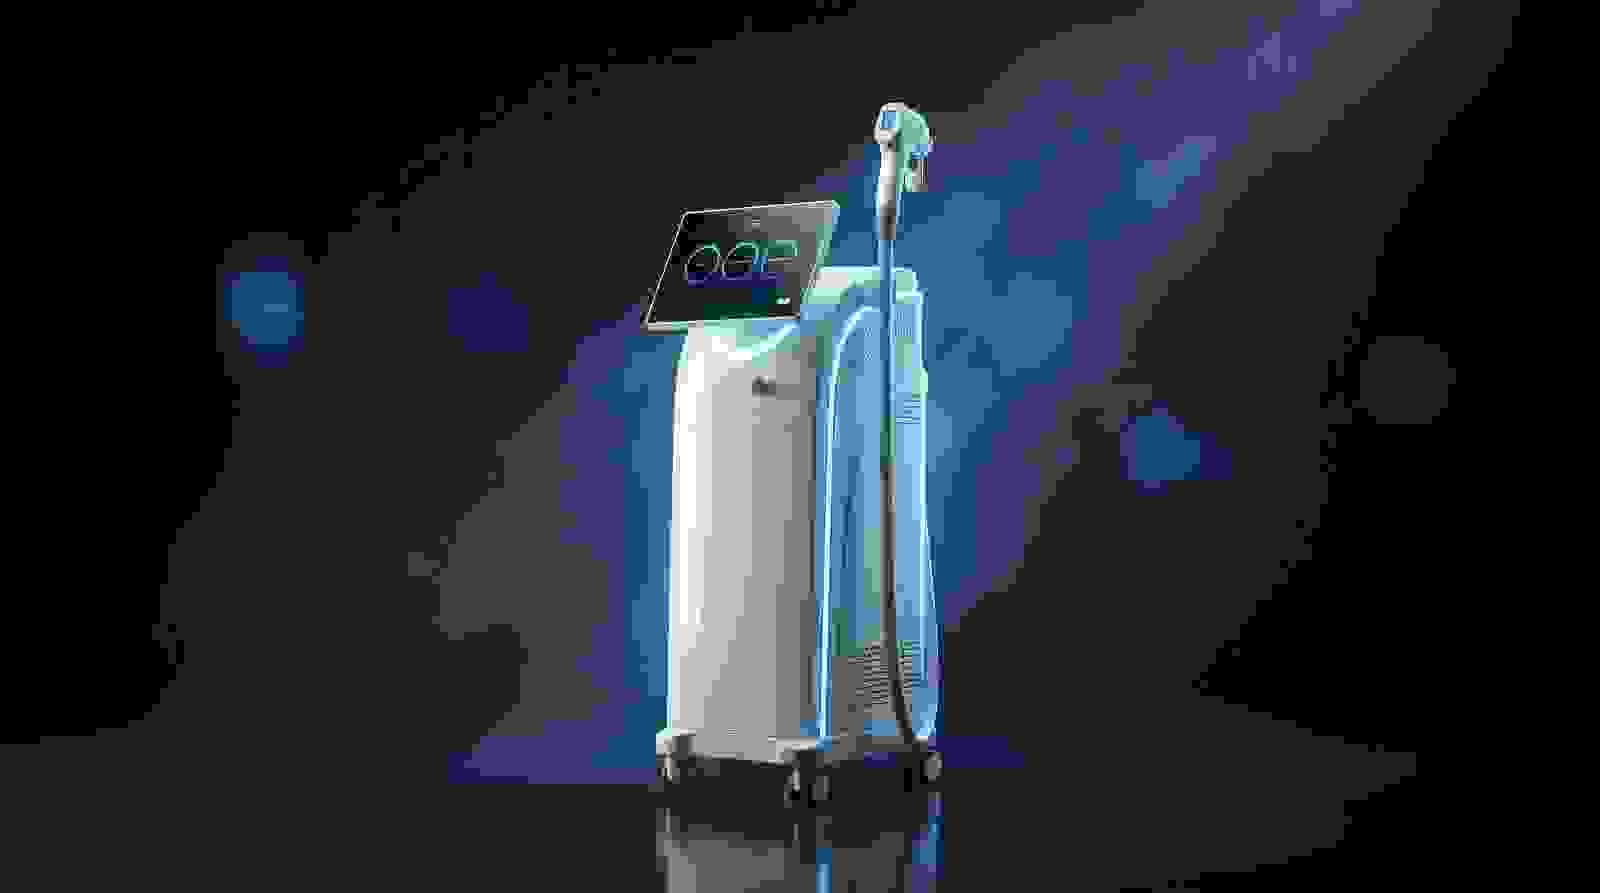
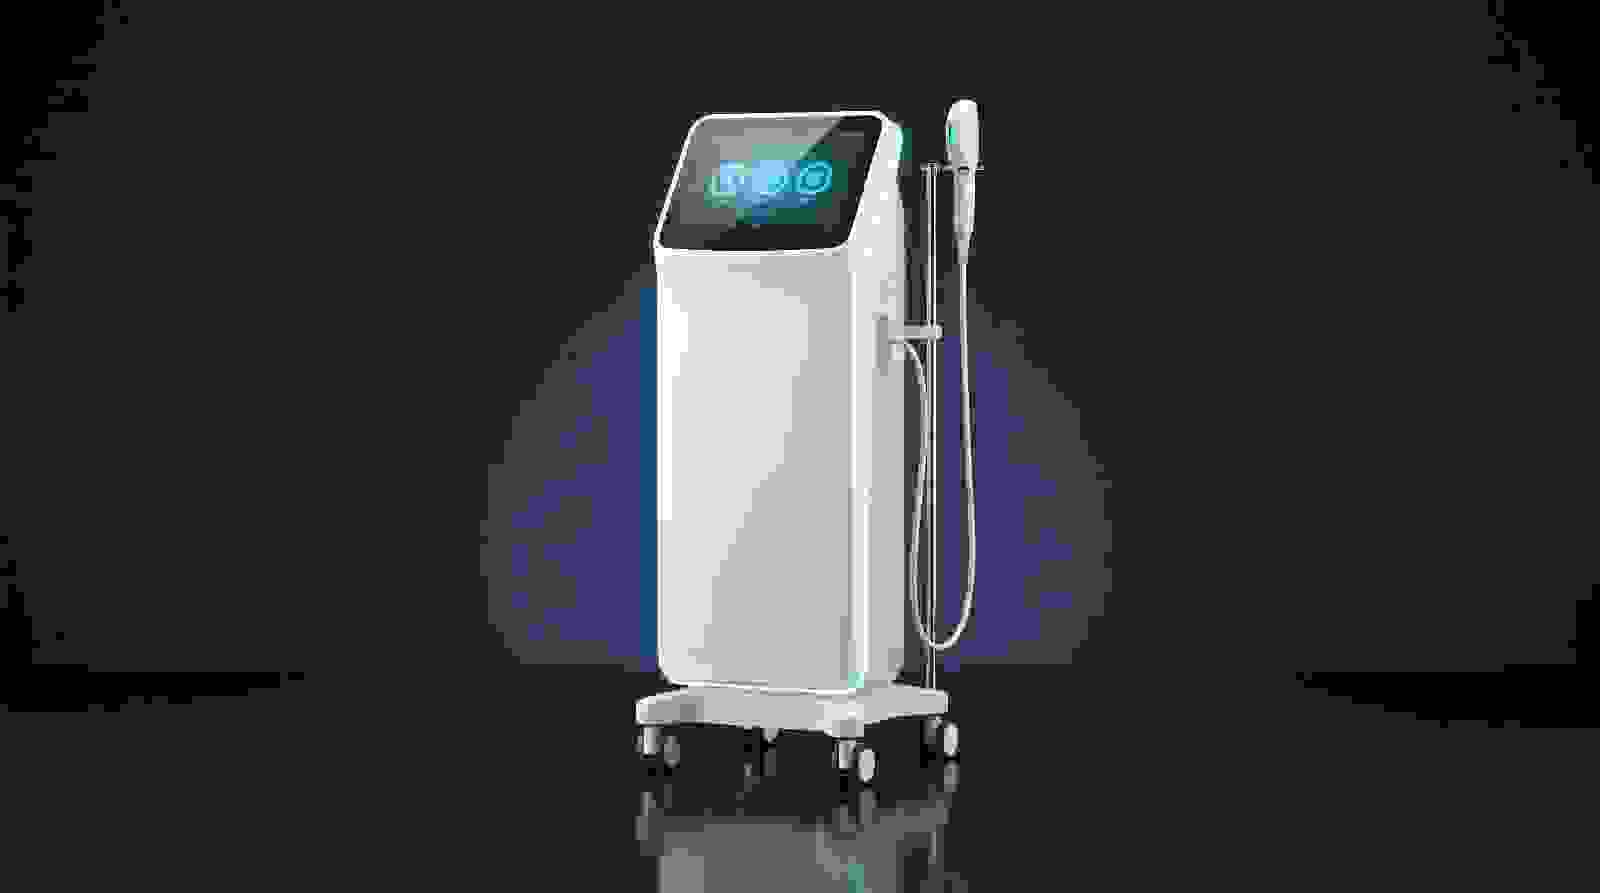
Tanıtım Videosu bölümü düzeltildi: berbat poster → temiz sinematik render + kolon dengesi
- Nano Banana Pro 4K yeni video posteri (temiz lacivert stüdyo, keskin cihaz; eski muddy mor blobby görsel atıldı)
- sağ kolon dengelendi: video altına 3 öne çıkan özellik kartı (.vid-points: gerçek uygulama akışı / 15.6" akıllı arayüz / hızlı tak-çıkar başlık) → sol tablo ile yükseklik dengesi (fark 180px → 63px)
- masaüstü + mobil doğrulandı, taşma/konsol hatası yok

diff --git a/index.html b/index.html
@@ -279,6 +279,12 @@ header{position:sticky;top:0;z-index:50;background:rgba(7,24,38,.88);backdrop-fi
 .vid-mock .facade .play svg{width:28px;height:28px;margin-left:4px;fill:#04141f}
 .vid-mock .facade .cap{position:absolute;left:0;right:0;bottom:16px;text-align:center;font-size:.8rem;font-weight:600;color:#eaf6fb;text-shadow:0 1px 6px rgba(0,0,0,.7);padding:0 12px}
 .vid-mock iframe{position:absolute;inset:0;width:100%;height:100%;border:0}
+.vid-points{list-style:none;margin:18px 0 0;display:grid;gap:10px}
+.vid-points li{display:flex;gap:12px;align-items:flex-start;background:rgba(95,217,255,.045);border:1px solid var(--line);border-radius:12px;padding:12px 15px;color:var(--ice);transition:border-color .25s,background .25s}
+.vid-points li:hover{border-color:rgba(95,217,255,.4);background:rgba(95,217,255,.08)}
+.vid-points li .ico{width:19px;height:19px;margin-top:2px;flex:none}
+.vid-points b{display:block;font-size:.9rem;color:var(--ice2);margin-bottom:2px}
+.vid-points p{margin:0;font-size:.82rem;color:var(--mut);line-height:1.45}
 
 /* sss — teknik+video altında tam genişlik, iki kolon */
 .faq-below{margin-top:54px}
@@ -1319,6 +1325,11 @@ footer a{color:var(--ice2);font-weight:600}
           </button>
         </div>
         <p class="reveal" style="margin-top:14px;font-size:.82rem;color:var(--mut)">Gerçek cihaz tanıtım videosu — uygulama konforu, akıllı arayüz ve hızlı başlık değişimini izleyin.</p>
+        <ul class="vid-points">
+          <li class="reveal"><svg class="ico"><use href="#i-play"/></svg><div><b>Gerçek uygulama akışı</b><p>Seans hızını ve danışan konforunu adım adım görün.</p></div></li>
+          <li class="reveal"><svg class="ico"><use href="#i-screen"/></svg><div><b>15.6" akıllı arayüz</b><p>Ana ekran ile başlık ekranı senkron çalışır.</p></div></li>
+          <li class="reveal"><svg class="ico"><use href="#i-tips"/></svg><div><b>Hızlı tak-çıkar başlık</b><p>Bölgeye uygun ucu saniyeler içinde değiştirin.</p></div></li>
+        </ul>
       </div>
     </div>
 